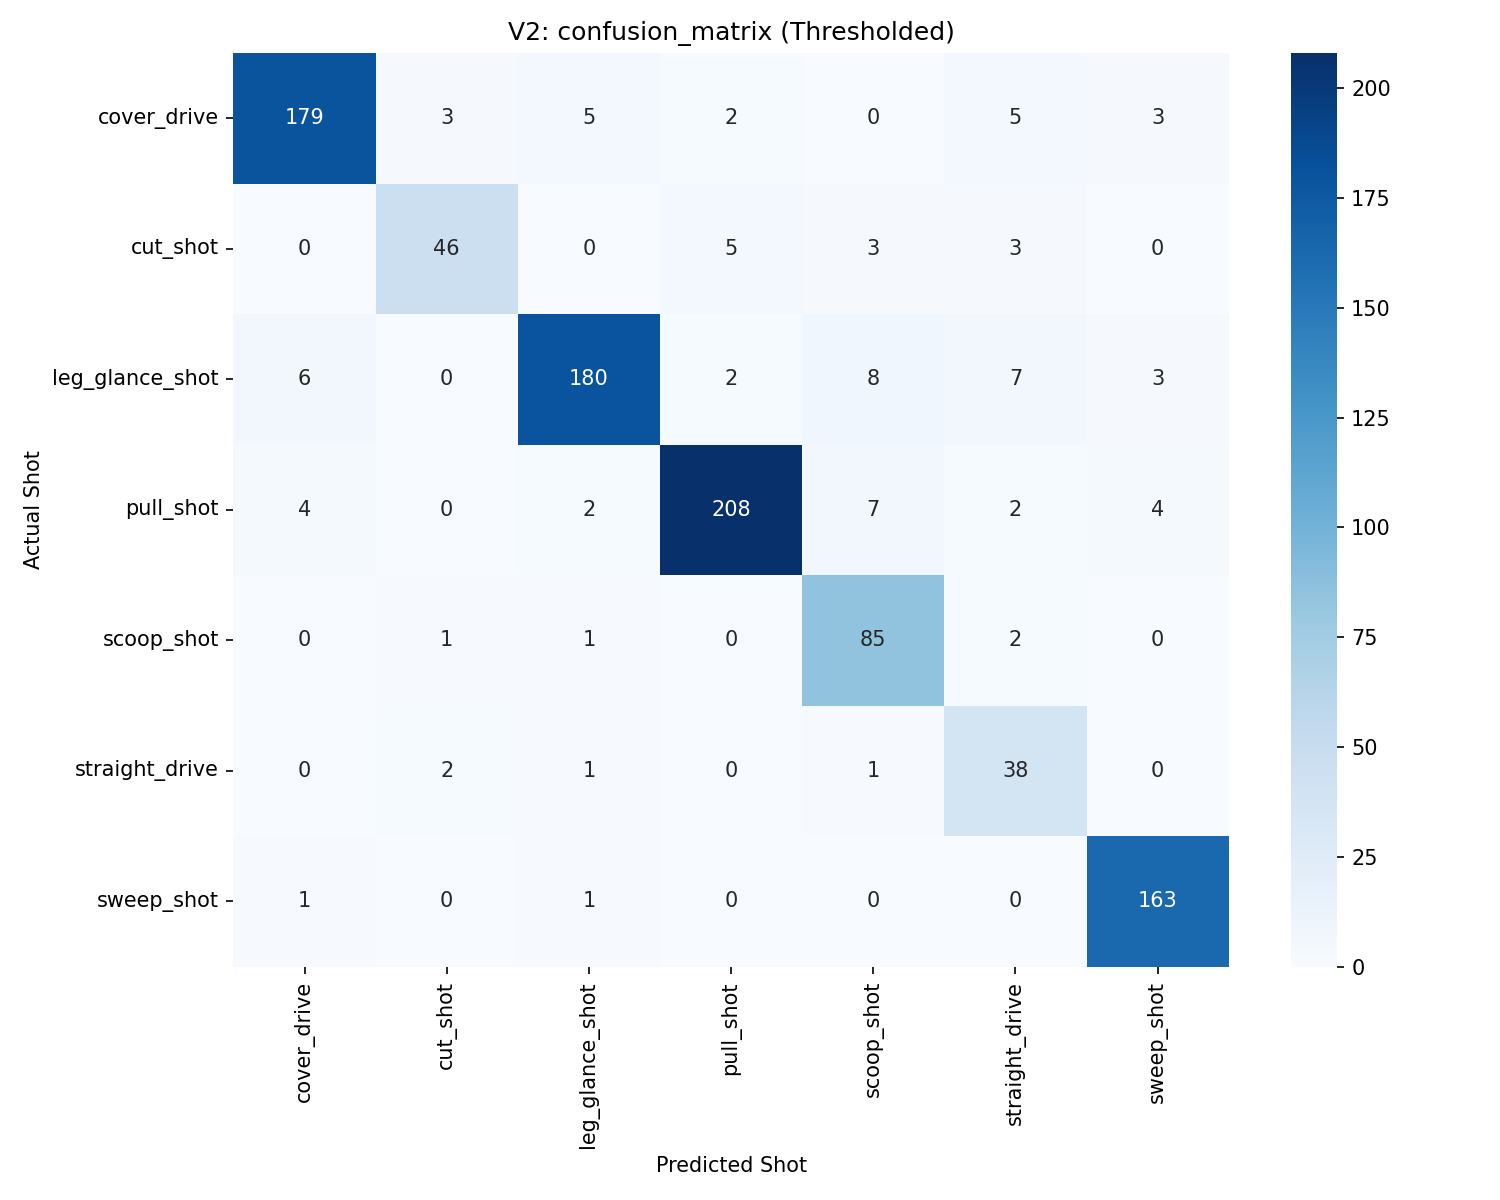
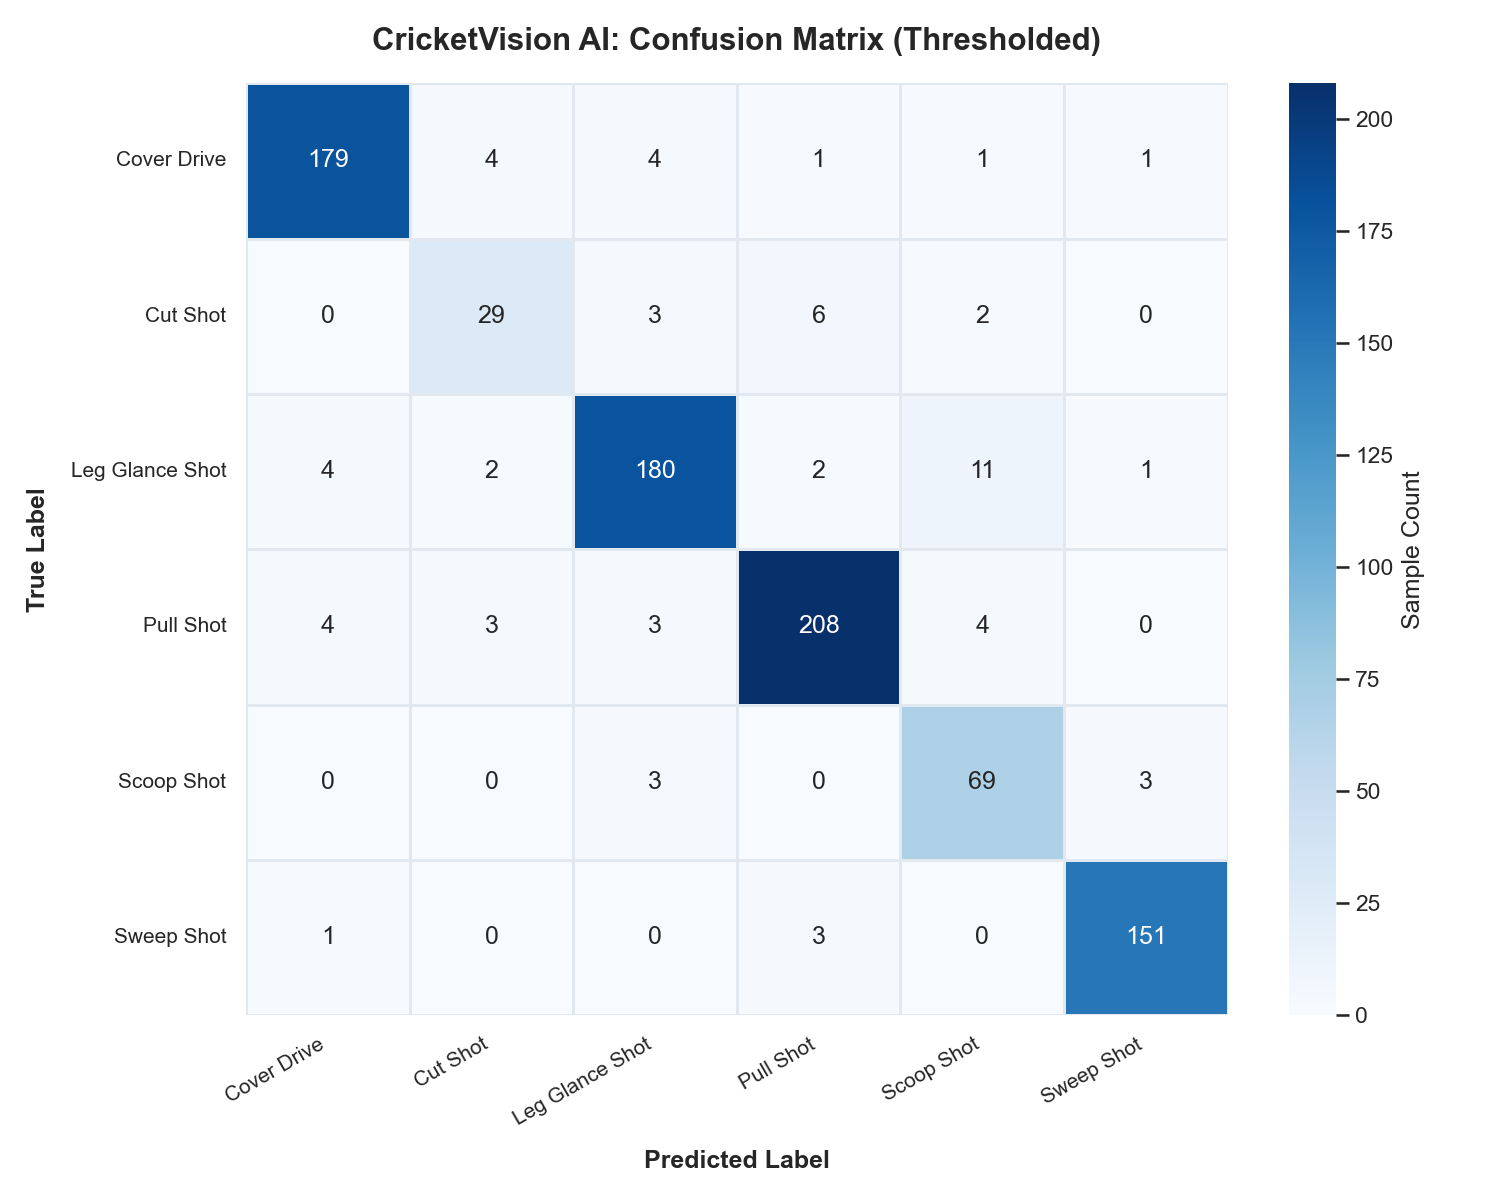
fix: dynamically bind footer accuracy, regenerate remaining stale assets, and align metrics

diff --git a/generate_report_charts.py b/generate_report_charts.py
@@ -217,21 +217,117 @@ def main():
     print(f"  -> Saved {dist_path}")
 
     # ─────────────────────────────────────────────────────────────────────────
+    # 5. confusion_matrix.png (Raw counts confusion matrix heatmap)
+    # ─────────────────────────────────────────────────────────────────────────
+    print("Generating confusion_matrix.png (raw counts)...")
+    cm_raw = confusion_matrix(y_test_acc, base_preds_acc)
+
+    plt.figure(figsize=(10, 8), dpi=150)
+    sns.set_theme(style="white")
+    ax = sns.heatmap(
+        cm_raw,
+        annot=True,
+        fmt="d",
+        cmap="Blues",
+        xticklabels=[c.replace("_", " ").title() for c in class_names],
+        yticklabels=[c.replace("_", " ").title() for c in class_names],
+        cbar_kws={"label": "Sample Count"},
+        linewidths=0.5,
+        linecolor="#e2e8f0",
+    )
+    plt.title("CricketVision AI: Confusion Matrix (Thresholded)", fontsize=15, fontweight="bold", pad=16)
+    plt.xlabel("Predicted Label", fontsize=12, fontweight="bold", labelpad=10)
+    plt.ylabel("True Label", fontsize=12, fontweight="bold", labelpad=10)
+    plt.xticks(rotation=30, ha="right", fontsize=10)
+    plt.yticks(rotation=0, fontsize=10)
+    plt.tight_layout()
+
+    raw_cm_path = PERF_DIR / "confusion_matrix.png"
+    plt.savefig(raw_cm_path, dpi=150)
+    plt.close()
+    print(f"  -> Saved {raw_cm_path} (Matrix shape: {cm_raw.shape[0]}x{cm_raw.shape[1]})")
+
+    # ─────────────────────────────────────────────────────────────────────────
+    # 6. eda_boxplots.png (6 joint angle features across 6 shot classes)
+    # ─────────────────────────────────────────────────────────────────────────
+    print("Generating eda_boxplots.png...")
+    angle_features = [
+        "angle_r_elbow_3d",
+        "angle_l_elbow_3d",
+        "angle_r_shoulder_3d",
+        "angle_l_shoulder_3d",
+        "angle_r_knee_3d",
+        "angle_l_knee_3d",
+    ]
+    fig, axes = plt.subplots(2, 3, figsize=(15, 10), dpi=150)
+    axes = axes.flatten()
+    box_palette = sns.color_palette("rocket", len(class_names))
+
+    for idx, feat in enumerate(angle_features):
+        sns.boxplot(
+            data=df,
+            x="label",
+            y=feat,
+            order=class_names,
+            palette=box_palette,
+            ax=axes[idx],
+            fliersize=2.5,
+        )
+        axes[idx].set_title(feat.replace("_", " ").title(), fontsize=11, fontweight="bold")
+        axes[idx].set_xlabel("")
+        axes[idx].set_ylabel(feat, fontsize=9)
+        axes[idx].set_xticklabels([c.replace("_", " ") for c in class_names], rotation=40, ha="right", fontsize=8.5)
+        axes[idx].grid(axis="y", linestyle="--", alpha=0.5)
+
+    plt.suptitle("CricketVision AI: Biomechanical Joint Angle Distributions (6 Shot Classes)", fontsize=13, fontweight="bold", y=0.995)
+    plt.tight_layout()
+
+    boxplots_path = PERF_DIR / "eda_boxplots.png"
+    plt.savefig(boxplots_path, dpi=150)
+    plt.close()
+    print(f"  -> Saved {boxplots_path}")
+
+    # ─────────────────────────────────────────────────────────────────────────
+    # 7. eda_correlation.png (Feature correlation heatmap for current 51 features)
+    # ─────────────────────────────────────────────────────────────────────────
+    print("Generating eda_correlation.png...")
+    plt.figure(figsize=(16, 14), dpi=150)
+    corr_matrix = df[FEATURE_NAMES].corr()
+
+    sns.heatmap(
+        corr_matrix,
+        cmap="vlag",
+        center=0,
+        vmin=-0.8,
+        vmax=1.0,
+        xticklabels=FEATURE_NAMES,
+        yticklabels=FEATURE_NAMES,
+        cbar_kws={"label": "Correlation Coefficient"},
+    )
+    plt.title("CricketVision AI: Biomechanical Feature Correlation Matrix (51 Features)", fontsize=14, fontweight="bold", pad=12)
+    plt.xticks(rotation=90, fontsize=6.5)
+    plt.yticks(rotation=0, fontsize=6.5)
+    plt.tight_layout()
+
+    corr_path = PERF_DIR / "eda_correlation.png"
+    plt.savefig(corr_path, dpi=150)
+    plt.close()
+    print(f"  -> Saved {corr_path} (Features: {len(FEATURE_NAMES)}x{len(FEATURE_NAMES)})")
+
+    # ─────────────────────────────────────────────────────────────────────────
     # Diff / summary output
     # ─────────────────────────────────────────────────────────────────────────
     print("\n" + "=" * 65)
     print("PERFORMANCE ASSET REGENERATION SUMMARY")
     print("=" * 65)
-    print("Stale Asset Comparison:")
-    print("  • eval_confusion_matrix_pct.png: Old: 7 classes (incl straight_drive) -> New: 6 classes")
-    print("  • eval_per_class_f1.png         : Old: 7 classes -> New: 6 classes")
-    print("  • feature_importance.png        : Old: stale velocity/bat features (vel_*) -> New: 51 real features")
-    print("  • eda_class_distribution.png   : Old: '7 Shot Classes' -> New: '6 Shot Classes'")
-    print("-" * 65)
-    print("Untouched Assets Flagged (not verified in this step):")
-    print("  • confusion_matrix.png (non-pct raw matrix)")
-    print("  • eda_boxplots.png")
-    print("  • eda_correlation.png")
+    print("Refreshed Assets:")
+    print("  • eval_confusion_matrix_pct.png: 6 classes (row-normalized %)")
+    print("  • eval_per_class_f1.png         : 6 classes (post-threshold F1)")
+    print("  • feature_importance.png        : Top 20 features from 51 FEATURE_NAMES")
+    print("  • eda_class_distribution.png   : 6 Shot Classes distribution")
+    print("  • confusion_matrix.png          : 6 classes raw counts (was stale 7-class)")
+    print("  • eda_boxplots.png              : 6 classes across 6 angles (was stale 7-class)")
+    print("  • eda_correlation.png           : 51 current features (was stale 57-feature with vel_*)")
     print("=" * 65)
 
 

diff --git a/app.py b/app.py
@@ -33,30 +33,32 @@ logging.basicConfig(
 logger = logging.getLogger(__name__)
 
 
-def get_evaluation_metrics_markdown() -> str:
+def load_production_evaluation_metrics() -> dict[str, str]:
     """Parses metrics dynamically from reports/evaluation.md and docs/training.md."""
     eval_file = REPORTS_DIR / "evaluation.md"
     training_file = DOCS_DIR / "training.md"
 
-    overall_acc = "N/A"
-    cv_score = None
-    post_acc = "N/A"
-    reject_rate = "N/A"
+    metrics = {
+        "overall_acc": "N/A",
+        "cv_score": None,
+        "post_acc": "N/A",
+        "reject_rate": "N/A",
+    }
 
     if eval_file.exists():
         try:
             eval_text = eval_file.read_text(encoding="utf-8")
             m_raw = re.search(r"Overall Accuracy(?:\s*\(Raw\))?:\s*([0-9.]+%)", eval_text)
             if m_raw:
-                overall_acc = m_raw.group(1)
+                metrics["overall_acc"] = m_raw.group(1)
 
             m_post = re.search(r"Accuracy\s*\(Post-Threshold\):\s*([0-9.]+%)", eval_text)
             if m_post:
-                post_acc = m_post.group(1)
+                metrics["post_acc"] = m_post.group(1)
 
             m_rej = re.search(r"Rejected Samples:\s*\d+\s*\(([0-9.]+%)", eval_text)
             if m_rej:
-                reject_rate = m_rej.group(1)
+                metrics["reject_rate"] = m_rej.group(1)
         except Exception as err:
             logger.warning("Failed to parse %s: %s", eval_file, err)
 
@@ -65,16 +67,27 @@ def get_evaluation_metrics_markdown() -> str:
             train_text = training_file.read_text(encoding="utf-8")
             m_cv = re.search(r"Cross-validation\s*\|\s*[\d.]+%\s*\|\s*\*\*([0-9.]+%)\*\*", train_text)
             if m_cv:
-                cv_score = m_cv.group(1)
+                metrics["cv_score"] = m_cv.group(1)
         except Exception as err:
             logger.warning("Failed to parse %s: %s", training_file, err)
 
-    rows = [f"| **Overall Accuracy** | **{overall_acc}** |"]
-    if cv_score:
-        rows.append(f"| **Cross-Validation Score** | **{cv_score}** |")
+    return metrics
+
+
+PROD_METRICS = load_production_evaluation_metrics()
+
+
+def get_evaluation_metrics_markdown(metrics: dict[str, str] | None = None) -> str:
+    """Builds Markdown metrics table using parsed production metrics."""
+    if metrics is None:
+        metrics = PROD_METRICS
+
+    rows = [f"| **Overall Accuracy** | **{metrics['overall_acc']}** |"]
+    if metrics.get("cv_score"):
+        rows.append(f"| **Cross-Validation Score** | **{metrics['cv_score']}** |")
     rows.extend([
-        f"| **Post-threshold Accuracy** | **{post_acc}** |",
-        f"| **Rejection Rate** | **{reject_rate}** |",
+        f"| **Post-threshold Accuracy** | **{metrics['post_acc']}** |",
+        f"| **Rejection Rate** | **{metrics['reject_rate']}** |",
     ])
 
     return "\n".join([
@@ -544,7 +557,7 @@ with gr.Blocks(title=PROJECT_NAME, theme=premium_theme, css=CSS) as demo:
                 <a href='https://himanshu-jadhav-portfolio.vercel.app/' target='_blank'><img src='https://img.shields.io/badge/Portfolio-FFD700?style=for-the-badge&logo=google-chrome&logoColor=black'></a>
             </div>
             <div class="footer-architecture">
-                {PROJECT_NAME} Model Architecture: MediaPipe Pose + XGBoost + Confidence Thresholding · 91.45% Safe Accuracy
+                {PROJECT_NAME} Model Architecture: MediaPipe Pose + XGBoost + Confidence Thresholding · {PROD_METRICS['post_acc']} Safe Accuracy
             </div>
         </div>
         """

diff --git a/docs/training.md b/docs/training.md
@@ -70,7 +70,7 @@ Evaluation outputs (confusion matrix, plots, reports) belong in [`reports/`](../
 
 ## Confidence Thresholding
 
-At deployment time, predictions with `max(probability) < 0.65` are mapped to `"Uncertain Shot"`. This raises precision on accepted predictions to **91.45%** at the cost of rejecting ~29.7% of samples. See [`reports/evaluation.md`](../reports/evaluation.md).
+At deployment time, predictions with `max(probability) < 0.65` are mapped to `"Uncertain Shot"`. This raises precision on accepted predictions to **92.52%** at the cost of rejecting ~32.4% of samples. See [`reports/evaluation.md`](../reports/evaluation.md).
 
 ## Reproducing Training (Manual)
 

diff --git a/README.md b/README.md
@@ -312,8 +312,8 @@ The production V2 model shows the following performance metrics:
 | :--------------------------- | :------- | :--------- |
 | **Overall Accuracy**         | >= 75.0% | **77.5%**  |
 | **Cross-Validation Score**   | >= 75.0% | **78.2%**  |
-| **Safe (Filtered) Accuracy** | >= 90.0% | **91.45%** |
-| **Rejection Rate**           | < 35.0%  | **~29.7%** |
+| **Safe (Filtered) Accuracy** | >= 90.0% | **92.52%** |
+| **Rejection Rate**           | < 35.0%  | **32.4%**  |
 
 ### Evaluation Visualizations
 
